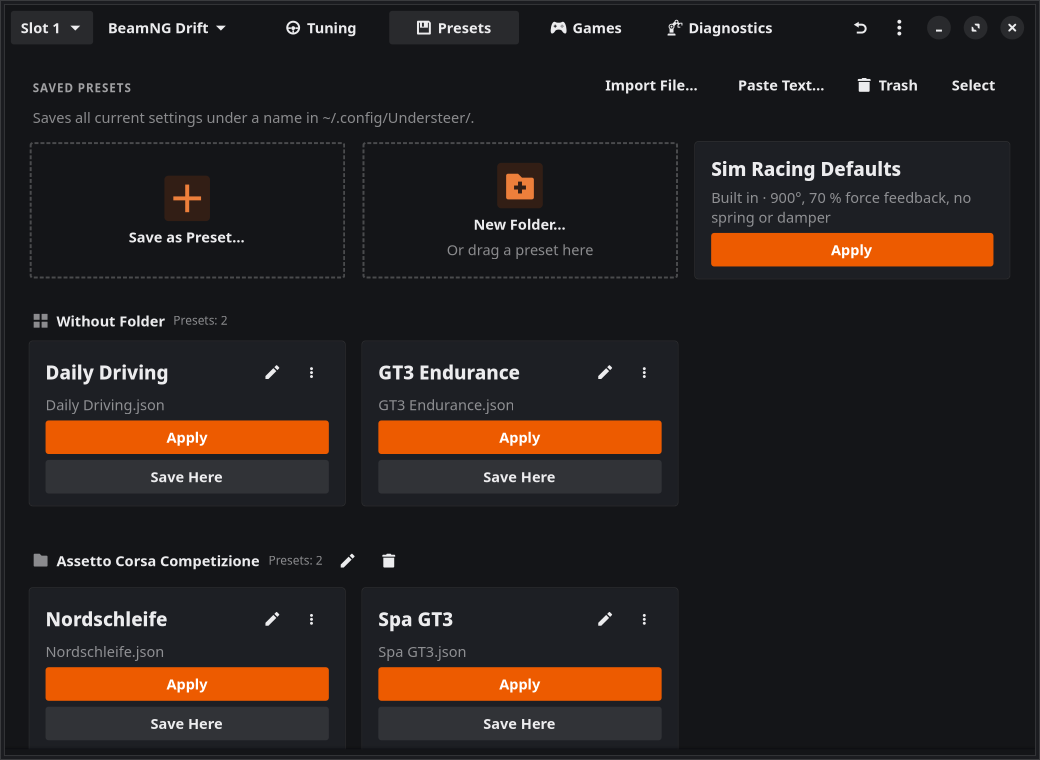
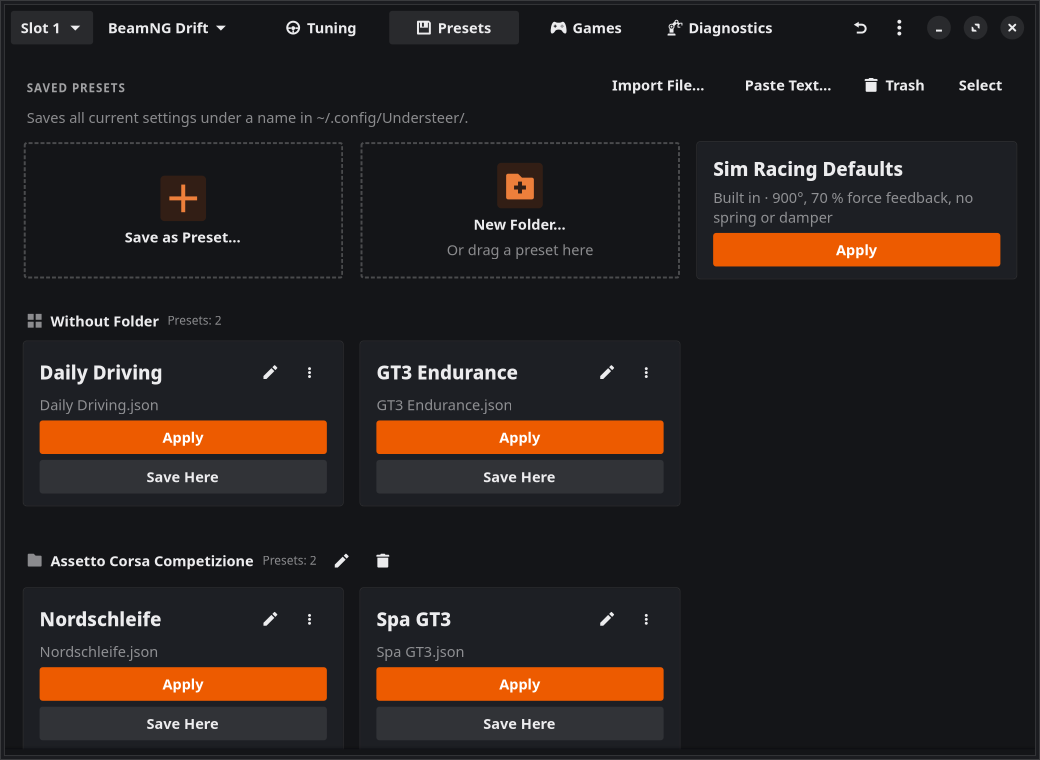
Use more of the width of large windows
The content of a page may get 1800 px wide instead of 1200, so a
maximized window on a Full HD or 4K screen has less empty space at the
sides. Presets show up to seven tiles per row; the settings at most
four, so their tiles and sliders get wider instead of leaving a gap.
Write the notes of 2.3.2.

diff --git a/understeer/ui/presets.py b/understeer/ui/presets.py
@@ -75,7 +75,7 @@ class PresetsMixin:
         choosing = self.preset_selection.active
         self.preset_selection.available([str(p) for _n, p in presets])
         # Making new things and the built-in preset, no drop target as a whole
-        actions = layout.tile_grid(columns=self.preset_columns)
+        actions = layout.tile_grid(max_per_line=7, columns=self.preset_columns)
         self.presets_box.append(actions)
         self.folder_flows = {}
         actions.append(layout.dashed_tile(
@@ -91,7 +91,7 @@ class PresetsMixin:
         actions.append(self._sim_defaults_tile())
         actions.set_sensitive(not choosing)     # nothing to choose there
         # The presets without a folder; dropping one here takes it out
-        self.presets_flow = layout.tile_grid(columns=self.preset_columns)
+        self.presets_flow = layout.tile_grid(max_per_line=7, columns=self.preset_columns)
         if loose or len(groups) > (1 if loose else 0):
             self.presets_box.append(self._preset_section(None, loose))
         for folder, group in groups:
@@ -105,7 +105,7 @@ class PresetsMixin:
         section.add_css_class("preset-folder")
         section.append(self._folder_head(folder, group))
         flow = self.presets_flow if folder is None else \
-            layout.tile_grid(columns=self.preset_columns)
+            layout.tile_grid(max_per_line=7, columns=self.preset_columns)
         if group:
             for name, path in group:
                 flow.append(self.preset_selection.wrap(

diff --git a/understeer/ui/window.py b/understeer/ui/window.py
@@ -421,8 +421,7 @@ class TunerWindow(LiveInputMixin, PresetsMixin, PreferencesMixin, TrashMixin,
         tab_row.append(self.status_label)
         top.append(tab_row)
 
-        clamp = Adw.Clamp(maximum_size=1200, tightening_threshold=900)
-        clamp.set_child(top)
+        clamp = layout.content_clamp(top)
         view = Gtk.Box(orientation=Gtk.Orientation.VERTICAL)
         view.append(clamp)
         view.append(self.tabs)
@@ -434,11 +433,14 @@ class TunerWindow(LiveInputMixin, PresetsMixin, PreferencesMixin, TrashMixin,
             self._build_live_pedals(column)
         grids = {}
         shared = layout.columns()       # the groups of a tab line up
+        # At most four per row: a group has up to four tiles, so in a wide
+        # window they get wider (longer sliders) instead of leaving a gap
         for s in SETTINGS:
             if s["page"] != tab:
                 continue
             if s["group"] not in grids:
-                grids[s["group"]] = layout.tile_grid(columns=shared)
+                grids[s["group"]] = layout.tile_grid(max_per_line=4,
+                                                     columns=shared)
                 if s["group"] in ADVANCED_GROUPS:
                     self._advanced_group(column, s["group"], grids[s["group"]])
                 else:

diff --git a/understeer/ui/layout.py b/understeer/ui/layout.py
@@ -6,6 +6,10 @@ import weakref
 from gi.repository import Adw, GLib, GObject, Gtk
 
 SIDES = ("top", "bottom", "start", "end")
+# How wide the content of a page gets in a large window: more than a
+# Full HD screen leaves free, so a maximized window there uses its width,
+# but not the whole of a 4K screen, where lines would get hard to follow.
+CONTENT_WIDTH = 1800
 
 
 def margins(widget, size, sides=SIDES):
@@ -15,10 +19,16 @@ def margins(widget, size, sides=SIDES):
     return widget
 
 
+def content_clamp(child=None):
+    """Centres child, at most CONTENT_WIDTH wide, the same on every page."""
+    return Adw.Clamp(maximum_size=CONTENT_WIDTH, tightening_threshold=900,
+                     child=child)
+
+
 def scroll_page():
     """Scrollable page with a centred column; returns (page, column)."""
     column = margins(Gtk.Box(orientation=Gtk.Orientation.VERTICAL, spacing=6), 12)
-    clamp = Adw.Clamp(maximum_size=1200, tightening_threshold=900, child=column)
+    clamp = content_clamp(column)
     page = Gtk.ScrolledWindow(hscrollbar_policy=Gtk.PolicyType.NEVER,
                               vexpand=True, child=clamp)
     return page, column

diff --git a/understeer/ui/diagnostics_page.py b/understeer/ui/diagnostics_page.py
@@ -5,7 +5,7 @@ The pages are window.axis_diagnostics (with the health check),
 window.button_diagnostics and window.led_diagnostics. Axes and buttons only read; the LED page writes,
 so it is active only while its tab is shown (see LedDiagnostics.enter()).
 """
-from gi.repository import Adw, Gtk
+from gi.repository import Gtk
 
 from ..i18n import N_, _
 from . import layout
@@ -41,8 +41,7 @@ class DiagnosticsPage:
                              12, ("top", "start", "end"))
         top.append(row)
         self.view = Gtk.Box(orientation=Gtk.Orientation.VERTICAL)
-        self.view.append(Adw.Clamp(maximum_size=1200, tightening_threshold=900,
-                                   child=top))
+        self.view.append(layout.content_clamp(top))
         self.view.append(self.tabs)
 
     @property
